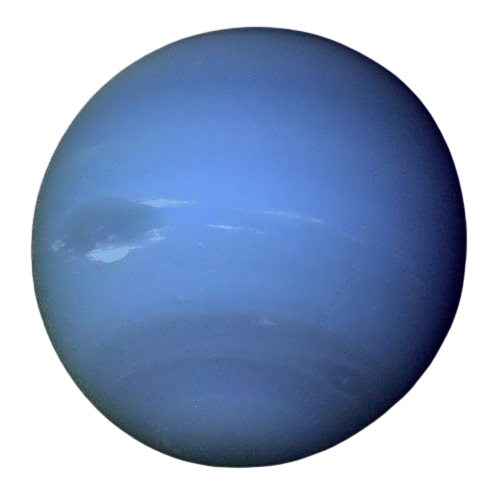
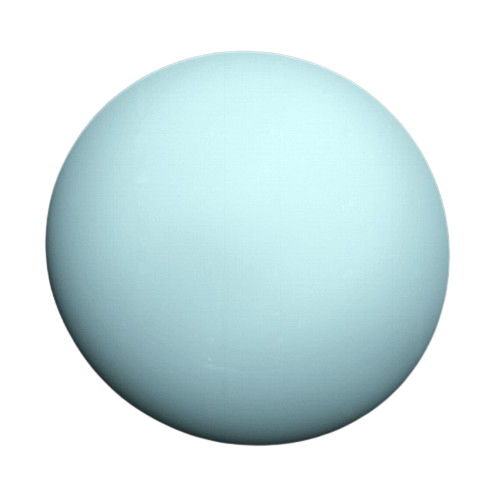
swaps img assets for Uranus and Neptune, adds data for Neptune and fixes Uranus avg surface temp

diff --git a/src/components/Planets/Neptune/index.tsx b/src/components/Planets/Neptune/index.tsx
@@ -1,14 +1,18 @@
-import { useRef } from 'react';
+import { useCallback, useEffect, useRef } from 'react';
 import { useTexture } from '@react-three/drei';
 import { useFrame } from '@react-three/fiber';
 import { Group, Vector3 } from 'three';
+import { CelestialBody } from '../../../context/CelestialBodyProvider';
+import { useCelestialBody, useModal } from '../../../context/hooks';
 import NeptuneMap from '/assets/neptune/neptune.jpg';
 
 const Neptune = () => {
   const neptuneRef = useRef<Group>();
   const neptunePositionRef = useRef(new Vector3(1250, 0, 0));
-
   const [neptuneTexture] = useTexture<string[]>([NeptuneMap]);
+
+  const { handleSelectCelestialBody } = useCelestialBody();
+  const { toggleModal } = useModal();
 
   useFrame(({ clock }) => {
     if (neptuneRef.current) {
@@ -22,9 +26,50 @@ const Neptune = () => {
     }
   });
 
+  //Assign data directly to mesh after it's creation
+  useEffect(() => {
+    if (neptuneRef.current) {
+      neptuneRef.current.userData = {
+        atmosphere: [
+          {
+            element: 'Hydrogen',
+            percentage: 80,
+          },
+          {
+            element: 'Helium',
+            percentage: 19,
+          },
+          {
+            element: 'Other Gases',
+            percentage: 1,
+          },
+        ],
+        diameter: 49244,
+        gravity: 11.15,
+        mass: '1.024e26',
+        moons: 14,
+        name: 'Neptune',
+        orbitalPeriod: '60,225',
+        rotationalPeriod: 0.67,
+        sunDistance: '4.495e9',
+        surfaceTemp: -201,
+      } as CelestialBody;
+    }
+  }, []);
+
+  //abstract this into context so that we don't need to repeat it for every planet component?
+  const handleSelectPlanet = useCallback(() => {
+    if (neptuneRef?.current?.userData) {
+      const planetData = neptuneRef.current.userData as CelestialBody;
+      handleSelectCelestialBody(planetData);
+      toggleModal();
+    }
+  }, [handleSelectCelestialBody, toggleModal]);
+
   return (
     <group ref={neptuneRef as React.MutableRefObject<Group>}>
       <mesh
+        onClick={handleSelectPlanet}
         //castShadow
         receiveShadow
       >

diff --git a/src/components/Planets/Uranus/index.tsx b/src/components/Planets/Uranus/index.tsx
@@ -52,7 +52,7 @@ const Uranus = () => {
         orbitalPeriod: '30,660',
         rotationalPeriod: 0.72,
         sunDistance: '4.495e9',
-        surfaceTemp: -201,
+        surfaceTemp: -197,
       } as CelestialBody;
     }
   }, []);
